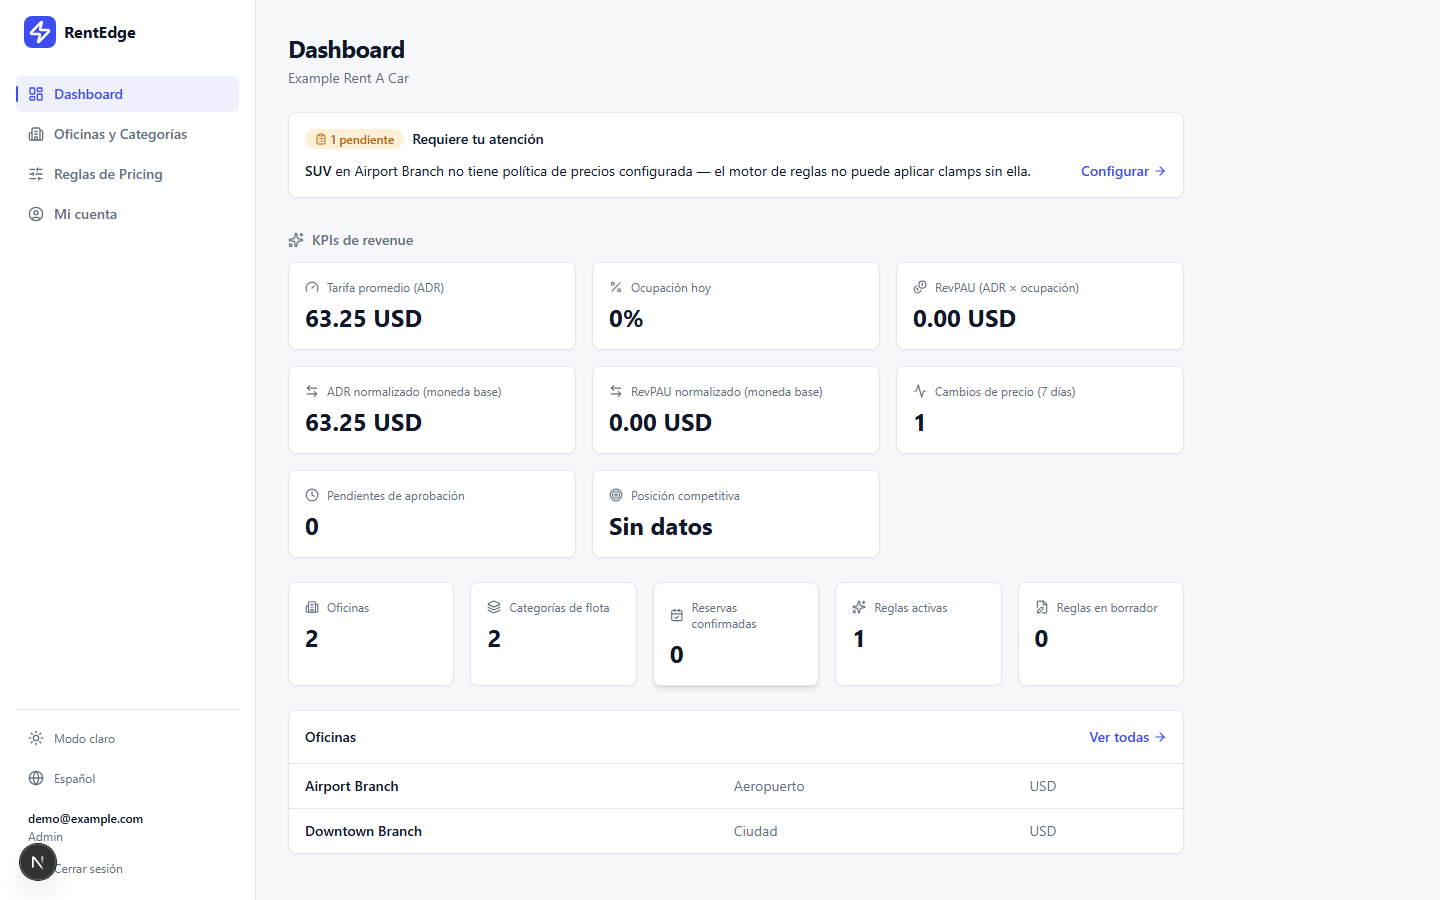
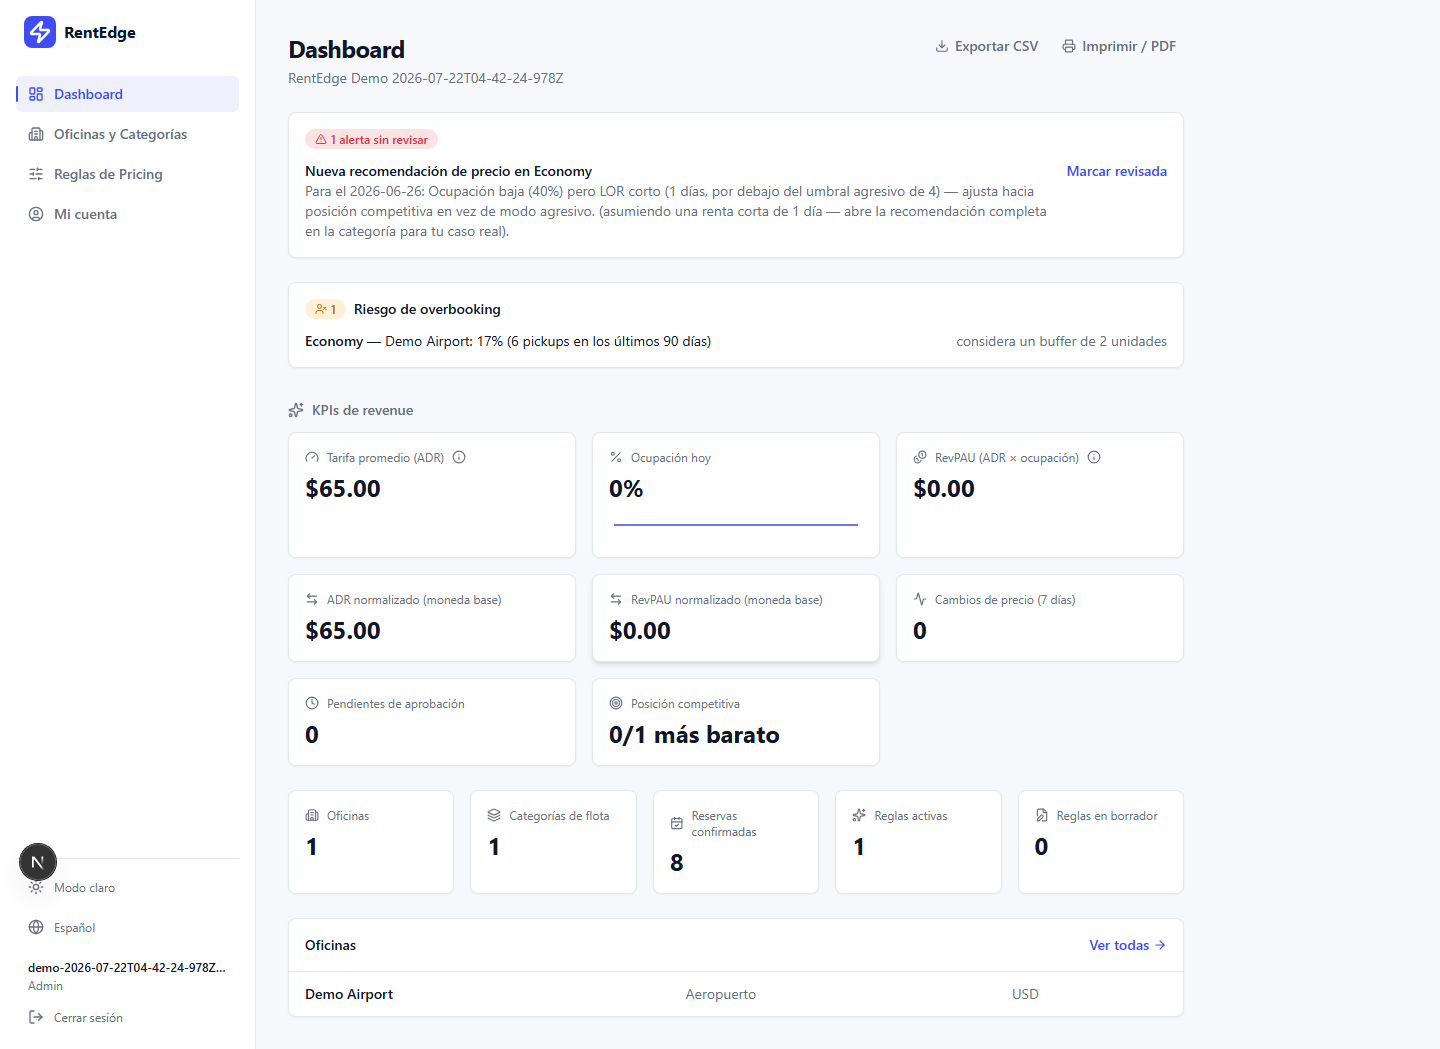
Update RentEdge entry with this session's revenue-management features
Test count, architecture highlights, and screenshots were stale (dated
before mobile-responsive, dark mode, i18n, and rules-engine work).
Refreshed to reflect LOR/channel price segmentation, no-show/overbooking
detection, deterministic pricing-decision narratives, multi-country tax
support, a general activity log, public API docs, and CI-verified backups.
Retook the dashboard and rate-plan screenshots against a live seeded demo
tenant; the login screenshot was unchanged pixel-for-pixel so left as-is.

diff --git a/src/content/projects.ts b/src/content/projects.ts
@@ -56,7 +56,7 @@ export const projects: Project[] = [
     status: "in-development",
     visibility: "private",
     featured: true,
-    stack: ["NestJS", "Next.js", "PostgreSQL", "TimescaleDB", "Redis", "Python", "Prisma", "Turborepo"],
+    stack: ["NestJS", "Next.js", "PostgreSQL", "TimescaleDB", "Redis", "BullMQ", "Python", "Prisma", "Turborepo"],
     role: "Full-stack architect & developer",
     summary: {
       en: "A multi-tenant SaaS platform that automates pricing, competitive intelligence, and revenue management for rent-a-car companies — the kind of system that usually costs six figures to license from an incumbent vendor.",
@@ -77,6 +77,9 @@ export const projects: Project[] = [
         "Multi-tenant JWT/RBAC with tenant isolation enforced in every use case, verified end-to-end (403 on cross-tenant access)",
         "Automated competitive rate intelligence via lightweight adapters that call OTA internal APIs directly instead of browser automation where possible",
         "PostgreSQL + TimescaleDB for pricing/occupancy time series, Redis + BullMQ for repricing events",
+        "Price segmentation by length-of-stay and sales channel, no-show/overbooking risk detection, and deterministic template-based \"why this price changed\" narratives generated from stored rule facts — a $0 alternative to a paid AI pricing assistant",
+        "Multi-country tax/currency support (USD/DOP/MXN) and a general activity/audit log capturing every mutating request via a single global middleware, not per-endpoint instrumentation",
+        "Public OpenAPI/Swagger docs and automated nightly Postgres backups to Cloudflare R2, with the restore cycle itself verified in CI, not just the backup",
       ],
       es: [
         "Monorepo NestJS + Next.js (Turborepo) con una capa de microservicios en Python para scraping y forecasting con ML, aislada por perfil de carga",
@@ -84,10 +87,13 @@ export const projects: Project[] = [
         "Multi-tenancy con JWT/RBAC y aislamiento de tenant forzado en cada caso de uso, verificado de punta a punta (403 en accesos cruzados entre tenants)",
         "Inteligencia competitiva automatizada vía adaptadores ligeros que llaman directamente a las APIs internas de las OTAs en vez de automatización de navegador, cuando es posible",
         "PostgreSQL + TimescaleDB para series de tiempo de precios/ocupación, Redis + BullMQ para eventos de repricing",
+        "Segmentación de precio por duración de estadía y canal de venta, detección de riesgo de no-show/overbooking, y narrativas deterministas basadas en plantillas (\"por qué cambió este precio\") generadas desde los mismos facts de las reglas — una alternativa a $0 frente a un asistente de IA pago",
+        "Soporte multi-país de impuestos/moneda (USD/DOP/MXN) y un log de actividad/auditoría general que captura cada request mutante vía un único middleware global, no instrumentación por endpoint",
+        "Documentación pública OpenAPI/Swagger y backups automáticos nocturnos de Postgres a Cloudflare R2, con el ciclo de restore verificado en CI, no solo el backup",
       ],
     },
     metrics: [
-      { label: { en: "Backend tests", es: "Tests de backend" }, value: "60+ (unit + e2e)" },
+      { label: { en: "Backend tests", es: "Tests de backend" }, value: "700+ (unit + e2e)" },
       { label: { en: "Services", es: "Servicios" }, value: "API + Web + 2 Python microservices" },
     ],
     links: [{ label: PRIVATE_LABEL, href: "mailto:[email redacted]?subject=RentEdge%20repo%20access", icon: "external" }],